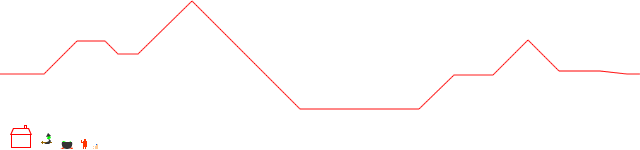
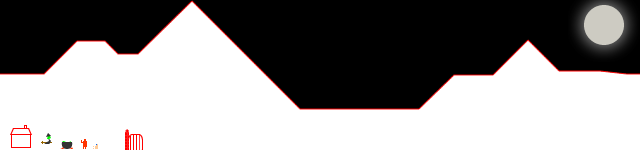
More witch

diff --git a/SampleGames/Witch/index.html b/SampleGames/Witch/index.html
@@ -27,6 +27,7 @@
     <script language="Javascript" src="scripts/hud.js"></script>
     <script language="Javascript" src="scripts/particles.js"></script>
     <script language="Javascript" src="scripts/end.js"></script>
+    <script language="Javascript" src="scripts/gate.js"></script>
     
 	<body>
         <canvas width="640" height="150" id="canvas"></canvas>
@@ -61,13 +62,19 @@
     var houseContainer = jsGFwk.Container.createContainer("houseCloner", house, true);
     var particlesContainer = jsGFwk.Container.createContainer("particleCloner", particles, true);
     
-    GLOBAL = { level: 0, babys: 0 };
+    GLOBAL = {
+        level: 0, babys: 0,
+        witch: {
+            feed: 100,
+            energy: 0
+        }
+     };
 
     jsGFwk.Scenes.create({name: "hud", 
         gameObjects: [hud] });
     
     jsGFwk.Scenes.create({name: "game", 
-        gameObjects: [levelController, background, houseContainer, witch, enemyContainer, bulletContainer, particlesContainer] });
+        gameObjects: [levelController, background, houseContainer, gate, witch, enemyContainer, bulletContainer, particlesContainer] });
 
     jsGFwk.Scenes.create({name: "end", 
         gameObjects: [end] });
@@ -101,6 +108,11 @@
         jsGFwk.Sprites.createSprite({
             id: 'baby', graphic: jsGFwk.ResourceManager.graphics.main.image,
             left: 93, top: 144, width: 5, height: 5
+        });
+        
+        jsGFwk.Sprites.createSprite({
+            id: 'gate', graphic: jsGFwk.ResourceManager.graphics.main.image,
+            left: 125, top: 129, width: 18, height: 21
         });
                 
         jsGFwk.Scenes.scenes.hud.enable();

diff --git a/SampleGames/Witch/scripts/witch.js b/SampleGames/Witch/scripts/witch.js
@@ -12,6 +12,17 @@ var witch = {
             x: 10, y: jsGFwk.settings.height - 8,
             width: 12, height: 8
         };
+        
+        this.foodConsumptionTimer = new jsGFwk.Timer({
+            action: function () {
+                GLOBAL.witch.feed--;
+                if (GLOBAL.witch <= 0) {
+                    //DEAD
+                    jsGFwk.Scenes.scenes.end.enable();
+                }
+            },
+            tickTime: 0.3
+        });
     },
     hit: function () {
         if (this.payload > 0) {
@@ -68,11 +79,17 @@ var witch = {
     },
     update: function (delta) {
         this.keyboardHandler(delta);
+        
         if (jsGFwk.Collisions.areCollidingBy(this, this.calderoFake, 
             jsGFwk.Collisions.collidingModes.RECTANGLE)) {
+            
+            GLOBAL.witch.feed = Math.min(100, GLOBAL.witch.feed + (this.payload * 5));
+            
             GLOBAL.babys += this.payload;
             this.payload = 0;
         }
+        
+        this.foodConsumptionTimer.tick(delta);
     },
     draw: function (context) {
         context.drawImage(jsGFwk.Sprites.player.image, this.x, this.y);

diff --git a/SampleGames/Witch/scripts/background.js b/SampleGames/Witch/scripts/background.js
@@ -1,16 +1,21 @@
 var background = {
     id: 'background', visible: true,
+    foodBarMaxSize: 50, foodBarSize: 0,
     init: function () {
     },
     update: function (delta) {
+        this.foodBarSize = (this.foodBarMaxSize * GLOBAL.witch.feed) / 100;
     },
     draw: function (context) {
         context.drawImage(jsGFwk.Sprites.background.image, 0, 0);
         context.drawImage(jsGFwk.Sprites.caldero.image, 10, jsGFwk.settings.height - 8);
         
-        context.font = '14pt zxBold';
+        context.font = '12pt zxBold';
         context.fillStyle = 'white';
-        context.fillText('Level ' + GLOBAL.level, 5, 10);
-        context.fillText('Sacrificed Babies ' + GLOBAL.babys, 5, 25);
+        //context.fillText('Level ' + GLOBAL.level, 5, 10);
+        context.fillText('Food', 5, 10);
+        
+        context.fillStyle = 'red';
+        context.fillRect(5, 12, this.foodBarSize, 5);
     }
 };

diff --git a/SampleGames/Witch/scripts/levelController.js b/SampleGames/Witch/scripts/levelController.js
@@ -2,6 +2,7 @@ var levelController = {
     id: 'levelController',
     visible: false,
     init: function () {
+        enemyContainer.clearAll();
         this.createLevel();
     },
     update: function (delta) {
@@ -18,14 +19,19 @@ var levelController = {
         }
     },
     createLevel: function () {
-        enemyContainer.clearAll();
         bulletContainer.clearAll();
         houseContainer.clearAll();
         
-        for (var i = 0; i < GLOBAL.level + 1; i++) {
-            enemyContainer.cloneObject();
+        var houses = Math.min(GLOBAL.level + 1, 20);
+        
+        for (var i = 0; i < 2; i++) {
+            enemyContainer.cloneObject({x: jsGFwk.settings.width});
+        }
+        
+        for (var i = 0; i < houses; i++) {
             houseContainer.cloneObject({ x: Math.random() * (jsGFwk.settings.width - 200) + 200})
         }
+        
         GLOBAL.level++;
     }
 };

diff --git a/SampleGames/Witch/scripts/house.js b/SampleGames/Witch/scripts/house.js
@@ -1,10 +1,18 @@
 var house = {
     onInit: function (params) {
+        var self = this;
         this.x = params.x;
         this.y = jsGFwk.settings.height - 23;
         this.width = 22;
         this.height = 23;
         this.hasBaby = true;
+        
+        this.villageCreatorTimer = new jsGFwk.Timer({
+            action: function () {
+                enemyContainer.cloneObject({x: self.x});
+            }, tickTime: 4
+        });
+        
     },
     onUpdate: function (delta) {
         if (jsGFwk.Collisions.areCollidingBy(this, witch, 
@@ -12,6 +20,8 @@ var house = {
             this.hasBaby = false;
             witch.payload++;
         }
+        
+        this.villageCreatorTimer.tick(delta);
     },
     onDraw: function (context) {
         context.drawImage(jsGFwk.Sprites.casa.image, this.x, this.y);

diff --git a/SampleGames/Witch/scripts/enemy.js b/SampleGames/Witch/scripts/enemy.js
@@ -1,7 +1,7 @@
 var enemy = {
     onInit: function (params) {
         var self = this;
-        this.x = jsGFwk.settings.width;
+        this.x = params.x;
         this.y = jsGFwk.settings.height - 10;
         this.speed = (Math.random() * 1) + 1;
         
@@ -12,11 +12,11 @@ var enemy = {
                     x: self.x,
                     y: self.y
                 });
-            }, tickTime: 1
+            }, tickTime: 1.2
         });
     },
     onUpdate: function (delta) {
-        if (witch.x < this.x) {
+        if (witch.x < this.x && this.x > (gate.x + gate.width)) {
             this.x -= this.speed;
         } else if (witch.x > this.x) {
             this.x += this.speed;

diff --git a/SampleGames/Witch/scripts/bullets.js b/SampleGames/Witch/scripts/bullets.js
@@ -4,7 +4,7 @@ var bullet = {
         this.y = params.y;
         this.width = 2;
         this.height = 2;
-        this.speed = 1;
+        this.speed = (Math.random() * 1) + 0.5;
         this.angle = params.angle;
         this.radius = 2;
     },
@@ -21,6 +21,11 @@ var bullet = {
         if (jsGFwk.Collisions.areCollidingBy(this, witch, 
              jsGFwk.Collisions.collidingModes.RECTANGLE)) {
             witch.hit();
+            this.destroy();
+        }
+        
+        if (jsGFwk.Collisions.areCollidingBy(this, gate, 
+             jsGFwk.Collisions.collidingModes.RECTANGLE)) {
             this.destroy();
         }
     },

diff --git a/SampleGames/Witch/scripts/gate.js b/SampleGames/Witch/scripts/gate.js
@@ -1,0 +1,13 @@
+var gate = {
+    id: 'gate',
+    visible: true,
+    width: 18, height: 21,
+    x: 40, y: 129,
+    init: function () {
+    },
+    update: function (delta) {
+    },
+    draw: function (context) {
+        context.drawImage(jsGFwk.Sprites.gate.image, this.x, this.y);
+    }
+};

diff --git a/SampleGames/Witch/scripts/hud.js b/SampleGames/Witch/scripts/hud.js
@@ -24,6 +24,7 @@ var hud = {
         
     },
     draw: function (context) {
+        context.fillStyle = 'white';
         context.textAlign = 'center';
         context.font = '28pt zxBold';
         context.fillText('Ultra Witch Simulator HD 2000', jsGFwk.settings.width / 2, 50);
